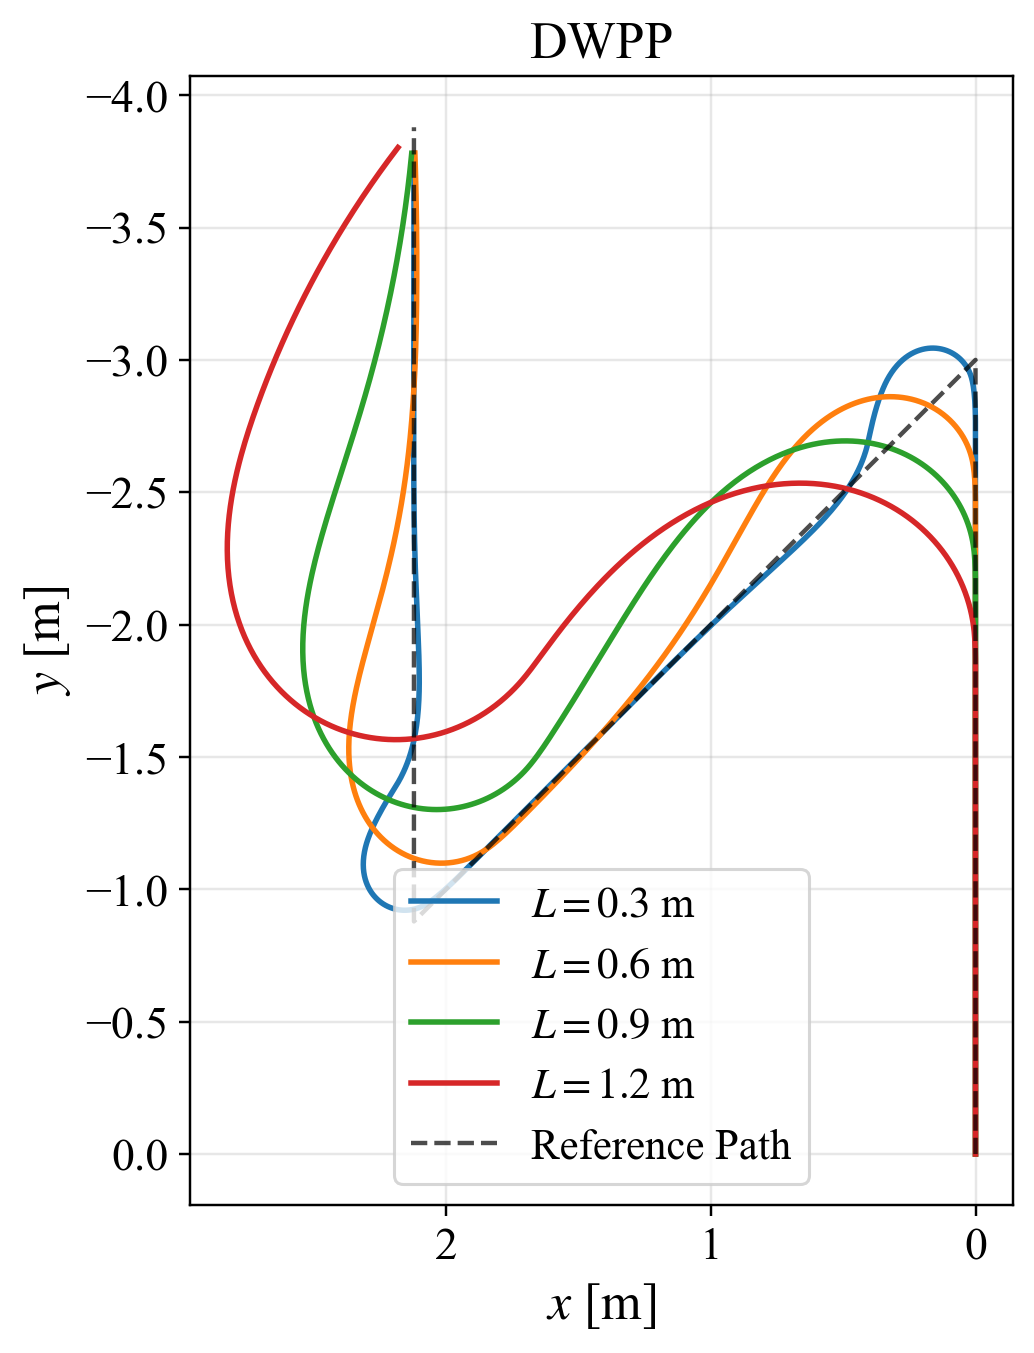
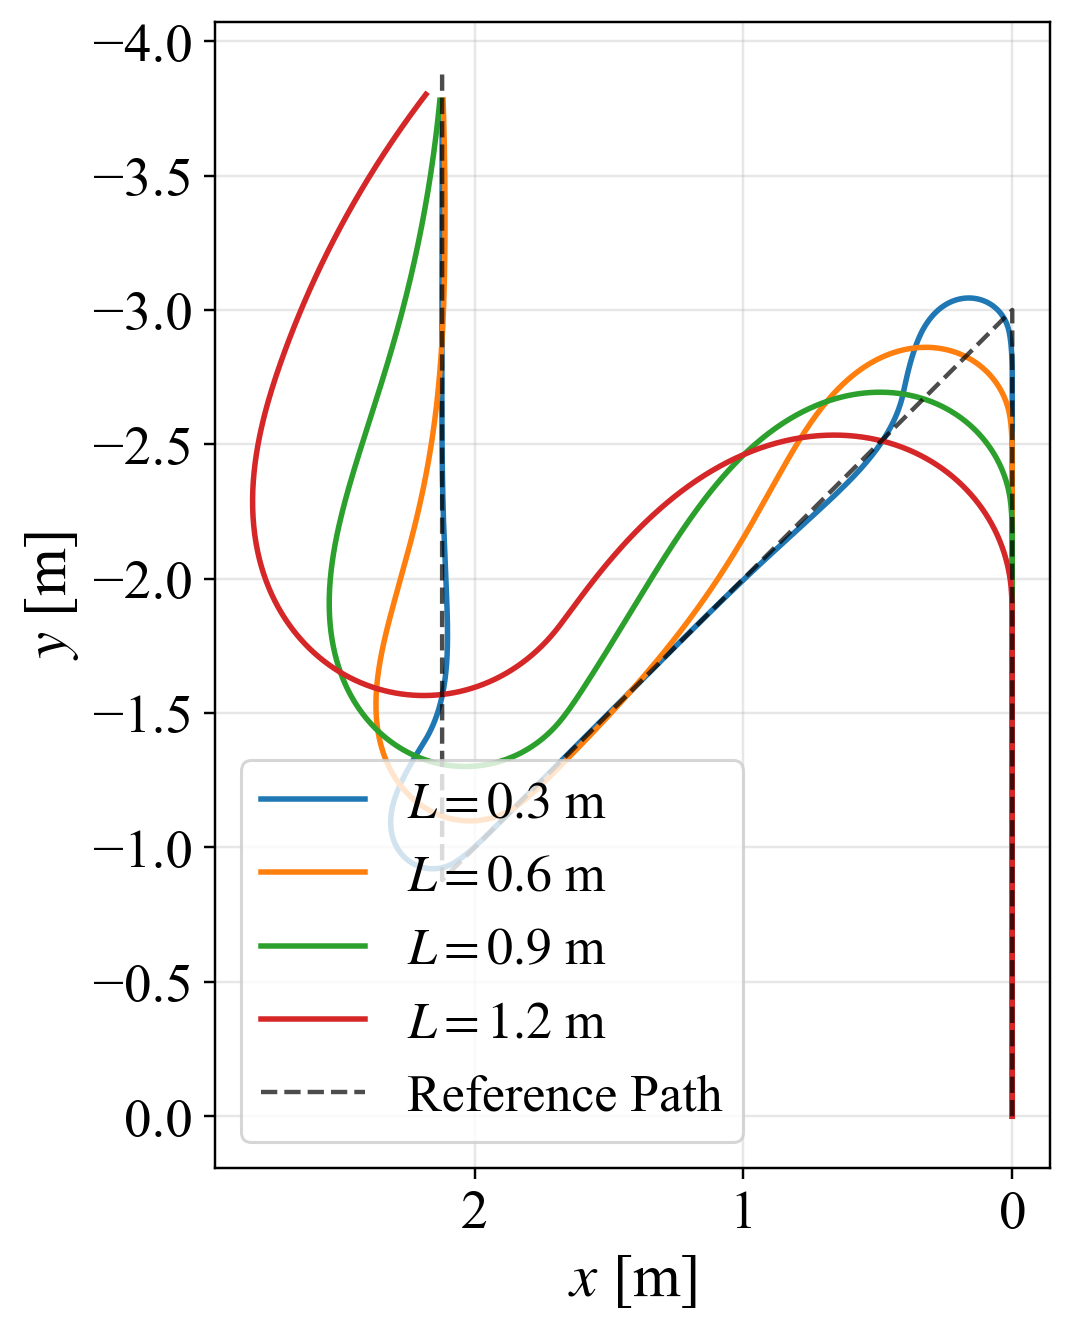
Drop the in-figure title and enlarge the lookahead trajectory fonts
The manuscript subcaption names the panel, so the DWPP title above the
axes is removed, and the fonts grow to 20pt for the small print size.

diff --git a/scripts/revision/studies.py b/scripts/revision/studies.py
@@ -949,7 +949,8 @@ def run_lookahead(output_root: Path = DEFAULT_OUTPUT_ROOT) -> dict[str, object]:
         path,
         [
             (
-                "DWPP",
+                # No in-figure title: the manuscript subcaption names the panel.
+                "",
                 [
                     (rf"$L={value:g}$ m", trajectory_results[value].positions)
                     for value in (0.3, 0.6, 0.9, 1.2)
@@ -958,7 +959,7 @@ def run_lookahead(output_root: Path = DEFAULT_OUTPUT_ROOT) -> dict[str, object]:
         ],
         out / "lookahead_trajectories",
         linewidth=1.8,
-        font_size=17,
+        font_size=20,
     )
     dwpp_zero = all(float(row["violation_ratio_mean"]) == 0.0 for row in rows)
     if not dwpp_zero:
